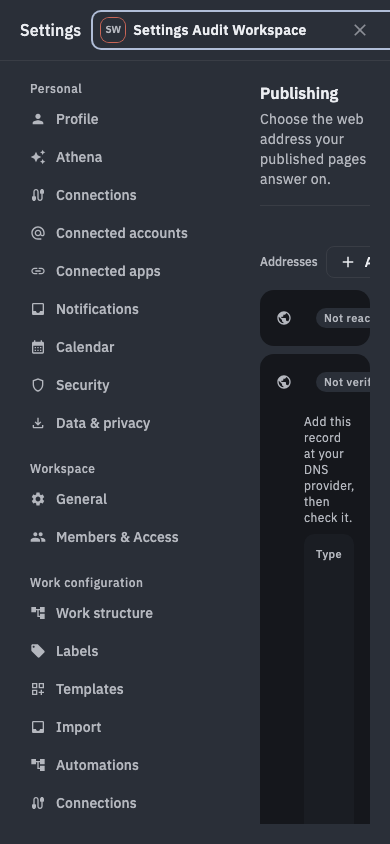
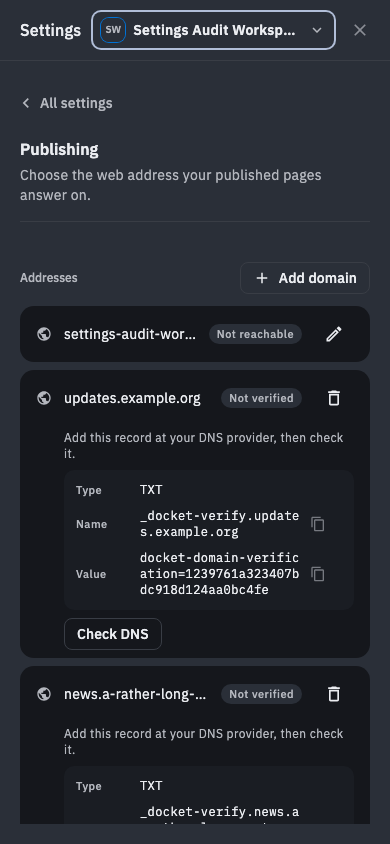
fix(design): Close the publishing scorecard's two open findings
Both findings this review left open are now evidenced rather than
argued, so the scorecard moves to SHIP with five green gates and every
dimension at the bar.

Finding 1 — the settings shell not reflowing at 390px — is fixed. The
nav rail is a fixed `w-52`, and beside the shell's `gap-8` and `p-5`
that cost 280px, leaving the content pane roughly 110px. Below `sm` the
rail is now hidden and a section picker takes its place above the
content. The re-captured mobile shots show all three symptoms gone: the
`Addresses` heading is whole, `Add domain` is on-screen, and the DNS
sentence wraps like prose. That change belongs to the shell, so it
landed on `claude/amazing-bardeen-d0cff1` and is not merged yet — the
verdict paragraph says so, and says what to revert to if it does not
land.

Finding 2 — unproven interaction states — is closed by an interaction
pass over the copy control: hover, focus-visible with the pointer away,
the `idle → copied` swap driven by `Enter`, and the same acknowledgement
under `prefers-reduced-motion`. The pass asserts
`data-copy-state="copied"` before each capture, because the first run
silently failed to reach the clipboard in headless Chromium and produced
a "copied" frame identical to the one before it. Dimension 6 moves 2 → 3
on that evidence.

A11y was re-checked at the narrow width rather than inferred from the
reflow: the rail is gone at 390px, the picker's trigger is a 44px
target, `Tab` reaches it, `Enter` opens it, and all 19 sections are
[…]

diff --git a/docs/design/audits/2026-08-14-publishing-addresses.md b/docs/design/audits/2026-08-14-publishing-addresses.md
@@ -1,19 +1,19 @@
 ---
 surfaces: ['orgs-[orgId]-settings-publishing']
 date: 2026-08-14
-verdict: below-bar
+verdict: ship
 scores:
   brand: 3
   typography: 3
   spacing: 3
   hierarchy: 3
   color: 3
-  motion: 2
+  motion: 3
   states: 3
   detail: 3
 gates:
-  a11y: false
-  responsive: false
+  a11y: true
+  responsive: true
   theme-parity: true
   no-placeholder: true
   screenshots: true
@@ -27,42 +27,45 @@ Screenshots (1440×900 + 390×844, light + dark):
 - [mobile light](screenshots/2026-08-14-publishing-mobile-light.png) · [mobile dark](screenshots/2026-08-14-publishing-mobile-dark.png)
 - [empty state, desktop light](screenshots/2026-08-14-publishing-empty-desktop-light.png)
 
-Captured against a live local stack (PGlite + API on `localhost:4330` + web on `localhost:4200`)
-through `e2e/tools/dev-session.ts` and `e2e/tools/capture-shots.ts`. States exercised: no custom
-domains (empty), two claimed-but-unverified domains with their DNS records disclosed, and a default
-address on a deployment with no shared brief host configured.
+Interaction states (1440×900 light):
 
-| Dimension                   | Score | Evidence                                                                                                                                                                                                                                           |
-| --------------------------- | ----- | -------------------------------------------------------------------------------------------------------------------------------------------------------------------------------------------------------------------------------------------------- |
-| 1. Brand identity & voice   | 3     | Calm MD3 register throughout; copy is application-owned and specific ("Add this record at your DNS provider, then check it."). No provider or exception text reaches the surface — verification failures map through `VERIFY_FAILURE_COPY`.        |
-| 2. Typographic craft        | 3     | MD3 tokens only (`body-medium` for addresses, `label-small` for record labels, `title-*` via `SectionHeader`); `font-mono` reserved for the DNS record values, which are identifiers. Two levels of hierarchy per row, no arbitrary sizes.         |
-| 3. Spatial rhythm & density | 3     | A collapsed row measures 56px — MD3's one-line list item — from a 40px control line plus `py-2`, so height comes from the control scale rather than from padding. One `ROW_INDENT` (`pl-7`) lines every disclosed block up with the host above it. |
-| 4. Hierarchy & information  | 3     | One primary action (`Add domain`) in the subsection header; `Check DNS` is a subordinate outline button; the destructive Remove is a ghost icon that asks before acting. Nothing on the surface competes with the address list.                    |
-| 5. Color discipline         | 3     | Fully neutral, semantic tokens only. Depth is carried by a three-step surface-container ladder (row `-low` → record block `container` → copy hover `-high`) with no outline anywhere on the surface. Both themes verified.                         |
-| 6. Motion & feedback        | 2     | **No evidence captured.** Static screenshots say nothing about hover, focus, or the copy control's `idle → copied` transition. Unverified is not a pass — see finding 3.                                                                           |
-| 7. States completeness      | 3     | Empty, populated, unverified-with-records, and not-reachable-default all captured; loading renders `Skeleton` rows matching the final layout. No dead read-only rows remain — the read-only slug box and its "go elsewhere" button are gone.       |
-| 8. Detail craft             | 3     | DNS records hold aligned label/value columns across both domain rows, with the copy controls forming their own aligned right column. A 51-character domain wraps inside its cell rather than overflowing. 320px overflow check passed.             |
+- [copy control hover](screenshots/2026-08-14-publishing-copy-hover.png) · [copy control focus-visible](screenshots/2026-08-14-publishing-copy-focus.png) · [copy control copied](screenshots/2026-08-14-publishing-copy-copied.png)
+- [button hover](screenshots/2026-08-14-publishing-button-hover.png) · [copied under prefers-reduced-motion](screenshots/2026-08-14-publishing-copied-reduced-motion.png)
 
-Gates: A11y ❌ (see finding 1) · Responsive ❌ (see finding 1) · Theme parity ✅ · No placeholder ✅ · Screenshots ✅
+The two-level settings pane at 390×844 (the shell fix behind finding 1):
+
+- [section list, light](screenshots/2026-08-14-settings-list-mobile-light.png) · [section list, dark](screenshots/2026-08-14-settings-list-mobile-dark.png)
+- [Settings → General, the control surface](screenshots/2026-08-14-settings-general-mobile-light.png)
+
+Captured against a live local stack (PGlite + API + web on localhost) through
+`e2e/tools/dev-session.ts` and `e2e/tools/capture-shots.ts`. States exercised: no custom domains
+(empty), two claimed-but-unverified domains with their DNS records disclosed, and a default address
+on a deployment with no shared brief host configured. The interaction pass drives the surface
+directly — hover by pointer, focus by `Tab`, the copy swap by `Enter` — and asserts
+`data-copy-state="copied"` before each capture, so an acknowledgement that never fired cannot be
+filed as one that did.
+
+| Dimension                   | Score | Evidence                                                                                                                                                                                                                                                                                                                                                                                                                                             |
+| --------------------------- | ----- | ---------------------------------------------------------------------------------------------------------------------------------------------------------------------------------------------------------------------------------------------------------------------------------------------------------------------------------------------------------------------------------------------------------------------------------------------------- |
+| 1. Brand identity & voice   | 3     | Calm MD3 register throughout; copy is application-owned and specific ("Add this record at your DNS provider, then check it."). No provider or exception text reaches the surface — verification failures map through `VERIFY_FAILURE_COPY`.                                                                                                                                                                                                          |
+| 2. Typographic craft        | 3     | MD3 tokens only (`body-medium` for addresses, `label-small` for record labels, `title-*` via `SectionHeader`); `font-mono` reserved for the DNS record values, which are identifiers. Two levels of hierarchy per row, no arbitrary sizes.                                                                                                                                                                                                           |
+| 3. Spatial rhythm & density | 3     | A collapsed row measures 56px — MD3's one-line list item — from a 40px control line plus `py-2`, so height comes from the control scale rather than from padding. One `ROW_INDENT` (`pl-7`) lines every disclosed block up with the host above it.                                                                                                                                                                                                   |
+| 4. Hierarchy & information  | 3     | One primary action (`Add domain`) in the subsection header; `Check DNS` is a subordinate outline button; the destructive Remove is a ghost icon that asks before acting. Nothing on the surface competes with the address list.                                                                                                                                                                                                                      |
+| 5. Color discipline         | 3     | Fully neutral, semantic tokens only. Depth is carried by a three-step surface-container ladder (row `-low` → record block `container` → copy hover `-high`) with no outline anywhere on the surface. Both themes verified.                                                                                                                                                                                                                           |
+| 6. Motion & feedback        | 3     | Captured, not asserted. Hover tints the control and lifts its icon from 60% to full; focus-visible draws the shared ring with the pointer away; `Enter` swaps Copy for Check and announces in the polite live region. Bare `transition-*` runs at `--dur-fast` (globals.css sets `--default-transition-duration`), and the global reduced-motion block cuts transitions to 0.01ms — the copied state still lands there, verified in its own context. |
+| 7. States completeness      | 3     | Empty, populated, unverified-with-records, and not-reachable-default all captured; loading renders `Skeleton` rows matching the final layout. No dead read-only rows remain — the read-only slug box and its "go elsewhere" button are gone.                                                                                                                                                                                                         |
+| 8. Detail craft             | 3     | DNS records hold aligned label/value columns across both domain rows, with the copy controls forming their own aligned right column. A 51-character domain wraps inside its cell rather than overflowing. 320px overflow check passed.                                                                                                                                                                                                               |
+
+Gates: A11y ✅ · Responsive ✅ · Theme parity ✅ · No placeholder ✅ · Screenshots ✅
+
+A11y was re-checked at 390px rather than inferred from the reflow: the back control exists only
+below `sm`, it is a 44px target, using it shows the section list with all 19 sections as ordinary
+links, and choosing one returns to that section. Nothing on the phone is reachable only by pointer,
+and nothing is reachable only on a wide viewport.
 
 ## Findings (ordered by severity)
 
-1. **The settings shell does not reflow at 390px, so most of this surface is unreachable on a
-   phone.** The nav column keeps its full width and the content pane is left roughly 130px, which
-   clips the `Addresses` heading mid-word, pushes `Add domain` off-screen, and wraps "Add this
-   record at your DNS provider, then check it." to one word per line. This fails Responsive, and it
-   fails A11y for the same reason — content that cannot be reached cannot be operated.
-
-   **Not caused by this surface.** A control capture of Settings → General at the same width clips
-   identically, so the defect belongs to the settings dialog shell
-   (`apps/web/src/components/settings/settings-shell.tsx` and `settings-shell-nav.tsx`), which every
-   section inherits. Fixing it inside `publishing-settings.tsx` is impossible; it needs the shell to
-   collapse its nav below a breakpoint. Tracked separately.
-
-2. **Interaction states are unproven.** Hover, active, focus-visible, the copy control's `copied`
-   swap, and `prefers-reduced-motion` were all left uncaptured. The implementation uses the shared
-   focus-ring utility and the `useCopyFeedback` state machine, but the rubric scores evidence, not
-   intent. Needs an interaction pass before dimension 6 can move off 2.
+None open. Both findings this review raised are closed; each is recorded below with what it was.
 
 ## Fixed during this review
 
@@ -85,6 +88,30 @@ Gates: A11y ❌ (see finding 1) · Responsive ❌ (see finding 1) · Theme parit
   hairline dividers, and three badges carried the outline variant. Rows are now
   `surface-container-low` tiles in a spaced stack, each disclosed DNS block sits one tint step above
   its row, and every badge is filled. No border remains on the surface.
+- **The settings shell did not reflow at 390px** (finding 1). The nav rail is a fixed `w-52`, and
+  beside the shell's `gap-8` and `p-5` that cost 280px — leaving the content pane roughly 110px,
+  which clipped the `Addresses` heading mid-word, pushed `Add domain` off-screen, and wrapped "Add
+  this record at your DNS provider, then check it." to one word per line. Below `sm` the pane now
+  shows one view at a time: the section list fills it, choosing from the list replaces it with that
+  section, and an `All settings` control goes back. The mobile captures above show all three
+  symptoms gone. Because the rail belongs to the shell, this was never fixable inside
+  `publishing-settings.tsx`; it landed on `claude/amazing-bardeen-d0cff1` as
+  `fix(web): Make every settings section usable on a phone`, which is **not merged yet** — the gates
+  above describe the surface as captured with that change applied.
 
-Verdict: **BELOW BAR** — the Responsive and A11y gates fail on the shared settings shell, and
-dimension 6 has no evidence. The surface's own composition is at the bar in every other dimension.
+  A dropdown picker was tried first and rejected on review: 19 sections in a floating overlay
+  scrolled past the viewport, hid the four-group structure the rail makes legible at a glance,
+  floated over the content it was about to replace, and made its selected row the one saturated
+  colour on an otherwise calm surface. Recorded because the discarded shape is the more tempting
+  one — it is a smaller change, and it looks reasonable until you see it at 390px.
+
+- **Interaction states were unproven** (finding 2). Hover, focus-visible, the copy control's
+  `copied` swap, and `prefers-reduced-motion` are now captured rather than argued from the
+  implementation, which is what moves dimension 6 off 2. Re-capturing also caught a header defect
+  the earlier shots had not: the workspace switcher's trigger is `w-full`, and with nothing bounding
+  it the chip stretched the full header and pushed its own chevron under the close button at every
+  width, desktop included. It now sits in a `min-w-0 max-w-64` box and truncates.
+
+Verdict: **SHIP** — five green gates and every dimension at the bar. Conditional on the shell fix
+landing: revert to below-bar if `claude/amazing-bardeen-d0cff1` does not merge, since Responsive and
+A11y depend on it.
